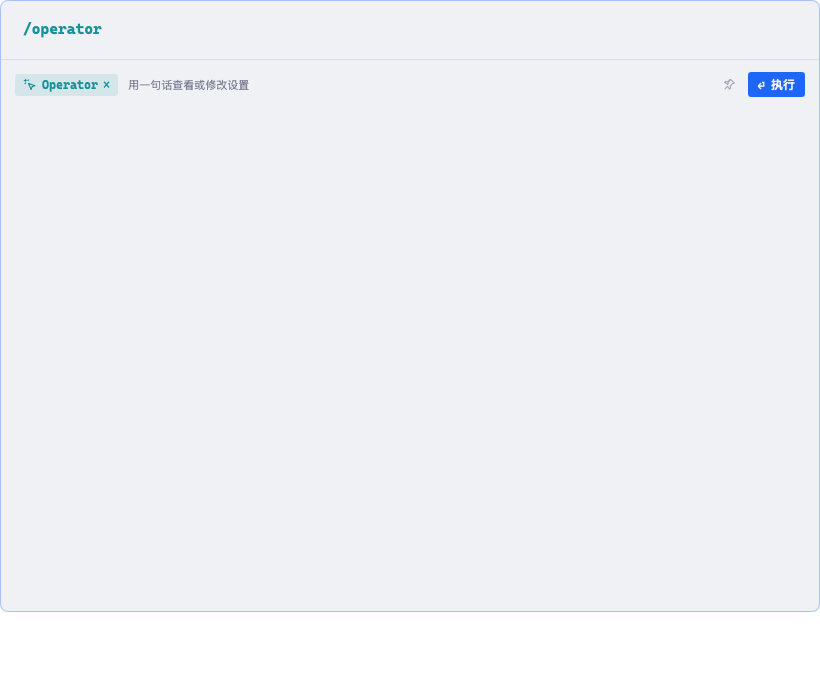
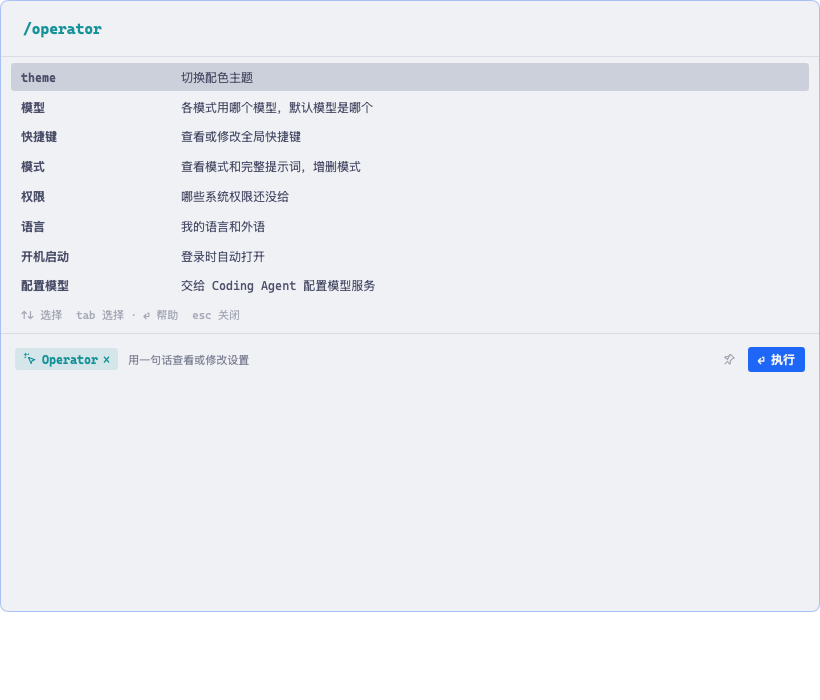
feat: show the operator topics on bare /operator
Typing /operator alone now opens its topic menu right away, so the
settings it can reach are visible before anything else is typed. Enter
on the bare command still opens the local guide without calling a
model; a topic runs only once Tab, a click or the arrows chose it.

diff --git a/internal/panel/slash_test.go b/internal/panel/slash_test.go
@@ -1,0 +1,244 @@
+package panel
+
+import (
+	"strings"
+	"testing"
+
+	"github.com/egoist/mygo/ui"
+)
+
+// operatorTopicTitles are the topics the operator menu lists, in order.
+var operatorTopicTitles = []string{
+	"切换配色主题",
+	"各模式用哪个模型，默认模型是哪个",
+	"查看或修改全局快捷键",
+	"查看模式和完整提示词，增删模式",
+	"哪些系统权限还没给",
+	"我的语言和外语",
+	"登录时自动打开",
+	"交给 Coding Agent 配置模型服务",
+}
+
+// operatorMenuFrames bounds how many frames a test draws while waiting for
+// a menu.
+const operatorMenuFrames = 12
+
+// waitForOperatorMenu draws frames until the menu shows every text in want
+// and is no longer waiting for the window.
+func waitForOperatorMenu(t *testing.T, h *harness, want ...string) {
+	t.Helper()
+	for i := 0; i < operatorMenuFrames; i++ {
+		h.tt.Frame()
+		if h.p.menuHidden {
+			continue
+		}
+		ok := true
+		for _, s := range want {
+			if !h.tt.HasText(s) {
+				ok = false
+				break
+			}
+		}
+		if ok {
+			return
+		}
+	}
+	kind, items := h.p.menu(h.p.pal)
+	t.Fatalf("after %d frames the menu (kind %d, %d items, hidden %v) shows no %q; source %q, texts %q",
+		operatorMenuFrames, kind, len(items), h.p.menuHidden, want, h.p.source, h.tt.Texts())
+}
+
+// assertMenuClosed draws a frame and fails while a menu still shows.
+func assertMenuClosed(t *testing.T, h *harness) {
+	t.Helper()
+	h.tt.Frame()
+	if kind, items := h.p.menu(h.p.pal); kind != menuNone {
+		t.Fatalf("menu still open: kind %d, %d items, source %q", kind, len(items), h.p.source)
+	}
+	// The guide repeats some topic titles as examples, so the menu's own
+	// hint is what says whether a menu is drawn.
+	if h.tt.HasText("↑↓ 选择") {
+		t.Fatalf("closed menu still shows its hint: %q", h.tt.Texts())
+	}
+}
+
+func TestOperatorMenuInputVariationsShowAllTopics(t *testing.T) {
+	for _, tc := range []struct {
+		name, input string
+	}{
+		{"bare", "/operator"},
+		{"space", "/operator "},
+		{"spaces", "/operator  "},
+		{"tab", "/operator\t"},
+	} {
+		t.Run(tc.name, func(t *testing.T) {
+			h := newHarness(t, script{})
+			h.tt.Frame()
+			h.tt.Click("原文")
+			h.tt.Type(tc.input)
+			waitForOperatorMenu(t, h, operatorTopicTitles...)
+			if h.p.source != tc.input {
+				t.Errorf("source = %q, want %q", h.p.source, tc.input)
+			}
+			kind, items := h.p.menu(h.p.pal)
+			if kind != menuTopics || len(items) != len(operatorTopicTitles) {
+				t.Errorf("menu kind %d with %d items, want %d topics", kind, len(items), len(operatorTopicTitles))
+			}
+		})
+	}
+}
+
+func TestOperatorMenuFiltersTopics(t *testing.T) {
+	h := newHarness(t, script{})
+	h.tt.Frame()
+	h.tt.Click("原文")
+	h.tt.Type("/operator   快捷")
+	waitForOperatorMenu(t, h, "查看或修改全局快捷键")
+
+	kind, items := h.p.menu(h.p.pal)
+	if kind != menuTopics || len(items) != 1 {
+		t.Fatalf("menu kind %d with %d items, want the 快捷键 topic", kind, len(items))
+	}
+	for _, title := range operatorTopicTitles {
+		if title == "查看或修改全局快捷键" {
+			continue
+		}
+		if h.tt.HasText(title) {
+			t.Errorf("filtering by 快捷 still shows %q", title)
+		}
+	}
+}
+
+func TestOperatorMenuRequestsShowNoTopics(t *testing.T) {
+	for _, tc := range []struct{ name, input string }{
+		{"request", "/operator 我的语言和外语分别是什么？"},
+		{"commandPrefix", "/operatorx"},
+	} {
+		t.Run(tc.name, func(t *testing.T) {
+			h := newHarness(t, script{})
+			h.tt.Frame()
+			h.tt.Click("原文")
+			h.tt.Type(tc.input)
+			for i := 0; i < operatorMenuFrames; i++ {
+				h.tt.Frame()
+			}
+			if kind, _ := h.p.menu(h.p.pal); kind == menuTopics {
+				t.Fatalf("a topics menu opened for %q", h.p.source)
+			}
+			for _, title := range operatorTopicTitles {
+				if h.tt.HasText(title) {
+					t.Fatalf("a topics menu shows %q for %q", title, h.p.source)
+				}
+			}
+		})
+	}
+}
+
+func TestOperatorMenuEnterWithoutArrowsShowsGuide(t *testing.T) {
+	oh := newOperatorHarness(t, "never asked")
+	oh.tt.Frame()
+	oh.tt.Click("原文")
+	oh.tt.Type("/operator")
+	waitForOperatorMenu(t, oh.harness, operatorTopicTitles...)
+
+	oh.tt.Key(0, ui.KeyEnter)
+	oh.drain()
+	if oh.p.sess == nil {
+		t.Fatalf("Enter on bare /operator started no session; source %q", oh.p.source)
+	}
+	turn := oh.p.sess.Last()
+	if !turn.Local || !strings.Contains(turn.Reply, "## Operator") || oh.system != "" {
+		t.Errorf("local %v, asked the model %v, reply %q", turn.Local, oh.system != "", turn.Reply)
+	}
+	if oh.p.source != "/operator" {
+		t.Errorf("source = %q, want the command unchanged", oh.p.source)
+	}
+	assertMenuClosed(t, oh.harness)
+}
+
+func TestOperatorMenuTabPicksTheme(t *testing.T) {
+	oh := newOperatorHarness(t, "never asked")
+	oh.tt.Frame()
+	oh.tt.Click("原文")
+	oh.tt.Type("/operator")
+	waitForOperatorMenu(t, oh.harness, operatorTopicTitles...)
+
+	oh.tt.Key(0, ui.KeyTab)
+	oh.tt.Frame()
+	if oh.p.source != "/theme " {
+		t.Fatalf("Tab gave %q, want /theme ", oh.p.source)
+	}
+	if oh.system != "" {
+		t.Error("picking the theme asked the model")
+	}
+	waitForOperatorMenu(t, oh.harness, "跟随系统")
+}
+
+func TestOperatorMenuArrowsPickTheme(t *testing.T) {
+	oh := newOperatorHarness(t, "never asked")
+	oh.tt.Frame()
+	oh.tt.Click("原文")
+	oh.tt.Type("/operator")
+	waitForOperatorMenu(t, oh.harness, operatorTopicTitles...)
+
+	// Down and Up end on the first row again; the arrows still count as
+	// an explicit choice, so Enter takes it instead of showing the guide.
+	oh.tt.Key(0, ui.KeyDown)
+	oh.tt.Key(0, ui.KeyUp)
+	oh.tt.Key(0, ui.KeyEnter)
+	oh.tt.Frame()
+	if oh.p.source != "/theme " {
+		t.Fatalf("Down, Up, Enter gave %q, want /theme ", oh.p.source)
+	}
+	if oh.system != "" {
+		t.Error("picking the theme asked the model")
+	}
+	waitForOperatorMenu(t, oh.harness, "跟随系统")
+}
+
+func TestOperatorMenuEscapeClosesTopics(t *testing.T) {
+	h := newHarness(t, script{})
+	h.tt.Frame()
+	h.tt.Click("原文")
+	h.tt.Type("/operator")
+	waitForOperatorMenu(t, h, operatorTopicTitles...)
+
+	h.tt.Key(0, ui.KeyEscape)
+	assertMenuClosed(t, h)
+	if h.p.source != "/operator" {
+		t.Errorf("Escape changed the source to %q", h.p.source)
+	}
+	if h.p.sess != nil {
+		t.Error("Escape ran the guide")
+	}
+}
+
+func TestOperatorMenuEditClearsArrowChoice(t *testing.T) {
+	oh := newOperatorHarness(t, "never asked")
+	oh.tt.Frame()
+	oh.tt.Click("原文")
+	oh.tt.Type("/operator")
+	waitForOperatorMenu(t, oh.harness, operatorTopicTitles...)
+
+	oh.tt.Key(0, ui.KeyDown)
+	oh.tt.Key(0, ui.KeyUp)
+	// Delete the command's last letter and type it again: the menu is back
+	// at bare /operator, but the arrows' choice was for text now gone.
+	oh.tt.Key(0, ui.KeyBackspace)
+	oh.tt.Type("r")
+	waitForOperatorMenu(t, oh.harness, operatorTopicTitles...)
+	if oh.p.source != "/operator" {
+		t.Fatalf("after the edit the source is %q, want bare /operator", oh.p.source)
+	}
+
+	oh.tt.Key(0, ui.KeyEnter)
+	oh.drain()
+	if oh.p.sess == nil {
+		t.Fatalf("Enter after editing started no session; source %q", oh.p.source)
+	}
+	turn := oh.p.sess.Last()
+	if !turn.Local || !strings.Contains(turn.Reply, "## Operator") || oh.system != "" {
+		t.Errorf("local %v, asked the model %v, reply %q", turn.Local, oh.system != "", turn.Reply)
+	}
+	assertMenuClosed(t, oh.harness)
+}

diff --git a/internal/panel/slash.go b/internal/panel/slash.go
@@ -12,8 +12,9 @@ import (
 
 // A menu shows under the source while a command is typed, as monocode's
 // quick composer does: the commands after "/", the topics after
-// "/operator ", the themes after "/theme". The arrows choose, Tab
-// and Enter take, Escape closes.
+// "/operator", the themes after "/theme". The arrows choose, Tab
+// and Enter take, Escape closes. Enter on bare /operator opens the guide
+// unless the arrows explicitly chose a topic.
 type menuKind int
 
 const (
@@ -54,22 +55,25 @@ func (p *Panel) menu(pal *design.Palette) (menuKind, []item) {
 
 func (p *Panel) menuItems(pal *design.Palette) (menuKind, []item) {
 	src := p.source
+	if src != p.menuChosenFor {
+		p.menuChosenFor = ""
+	}
+	if src != p.menuClosed {
+		p.menuClosed = ""
+	}
 	if src == p.menuClosed || strings.Contains(src, "\n") || p.noteMode() {
 		return menuNone, nil
 	}
+	request, isOperator := operator.Leading(src)
 	switch {
 	case themeTyped(src):
 		return menuThemes, p.themeItems(strings.TrimSpace(src[len(themeCommand):]))
-	case strings.HasPrefix(src, operator.Command+" "):
-		rest := src[len(operator.Command)+1:]
-		if strings.Contains(rest, " ") {
+	case isOperator:
+		if strings.ContainsAny(request, " \t") {
 			return menuNone, nil
 		}
-		return menuTopics, p.topicItems(rest)
+		return menuTopics, p.topicItems(request)
 	case strings.HasPrefix(src, "/") && !strings.ContainsAny(src, " \t"):
-		if _, ok := operator.Leading(src); ok {
-			return menuNone, nil
-		}
 		return menuCommands, p.commandItems(src[1:], pal)
 	}
 	return menuNone, nil
@@ -202,15 +206,21 @@ func (p *Panel) menuKey(k ui.TextKey, pal *design.Palette) bool {
 	switch {
 	case k.Key == ui.KeyEscape && k.Mods == 0:
 		p.menuClosed = p.source
+		p.menuChosenFor = ""
 		return true
 	case len(items) == 0:
 		return false
 	case k.Key == ui.KeyDown && k.Mods == 0:
 		p.menuIdx = (p.menuIdx + 1) % len(items)
+		p.menuChosenFor = p.source
 		return true
 	case k.Key == ui.KeyUp && k.Mods == 0:
 		p.menuIdx = (p.menuIdx - 1 + len(items)) % len(items)
+		p.menuChosenFor = p.source
 		return true
+	case k.Key == ui.KeyEnter && k.Mods == 0 && p.source == operator.Command && p.menuChosenFor != p.source:
+		p.menuClosed = p.source
+		return false
 	case (k.Key == ui.KeyTab || k.Key == ui.KeyEnter) && k.Mods == 0:
 		it := items[min(p.menuIdx, len(items)-1)]
 		p.menuIdx = 0
@@ -287,6 +297,10 @@ func (p *Panel) menuView(c *ui.Context, pal *design.Palette) {
 		})
 		hint := "tab ⏎ 确定"
 		switch kind {
+		case menuTopics:
+			if p.source == operator.Command && p.menuChosenFor != p.source {
+				hint = "tab 选择 · ⏎ 帮助"
+			}
 		case menuThemes:
 			hint = "⏎ 用这个主题"
 		}

diff --git a/internal/panel/panel.go b/internal/panel/panel.go
@@ -105,9 +105,12 @@ type Panel struct {
 	sourceSelected, followSelected bool
 
 	// menuIdx is the chosen row of the menu under the source; menuClosed
-	// the source the menu was closed for with Escape.
+	// the source the menu was dismissed for.
 	menuIdx    int
 	menuClosed string
+	// menuChosenFor is the source for which an arrow key chose a menu row.
+	// Without that choice, Enter on bare /operator still opens the guide.
+	menuChosenFor string
 	// menuRows is how many rows the menu has; menuGrew counts the frames
 	// since it opened or grew, while it waits for the window (menuWaiting).
 	menuRows, menuGrew int

diff --git a/docs/requirements.md b/docs/requirements.md
@@ -134,7 +134,7 @@
 | ID | 需求 | 级别 |
 | --- | --- | --- |
 | F9.1 | 原文以 `/operator` 开头即进入 Operator：命令变色并扫过一道光，模式标签换成「Operator ×」；× 或删掉命令即退出；同一会话的追问都留在 Operator | P0 |
-| F9.2 | 只输入 `/operator`：不调用模型，直接回复这个模式能做什么和示例；还没有模型时附上交给 Coding Agent 的配置提示词 | P0 |
+| F9.2 | 输入完整的 `/operator` 即显示子菜单，后接一个或多个空格、制表符也显示；继续输入时按主题过滤，不匹配的自然语言请求关闭菜单。裸命令直接按 ⏎ 显示本地帮助，不调用模型；Tab、点击或 ↑↓ 选择后按 ⏎ 执行菜单项，Esc 关闭菜单。帮助说明能做什么和示例；还没有模型时附上交给 Coding Agent 的配置提示词 | P0 |
 | F9.3 | 带一句话：交给默认模型，可以查看任何设置（快捷键、默认模型、各模式的模型与完整提示词、权限、版本），也可以修改 `config.json` 里除模型服务以外的一切；发送时结果区升起一阵星星 | P0 |
 | F9.4 | 修改直接生效：校验通过才写入，回复末尾列出改前 → 改后；在空的追问框按 ⌘Z 或点「撤销」恢复上一份配置；不合法时不写入并说明原因 | P0 |
 | F9.5 | 模型服务（endpoint、format、API Key）不在 Operator 里改：它会复制配置提示词，交给 Coding Agent | P0 |

diff --git a/docs/architecture.md b/docs/architecture.md
@@ -177,6 +177,8 @@ GlobalShortcut.Register("Alt+Space")（Carbon 热键）
 
 ## 九、Operator
 
+原文输入区用 `operator.Leading` 统一识别 Operator 模式与子菜单，空请求显示全部主题，非空请求按主题过滤（需求 F9.2）。菜单记录方向键选择所对应的原文，原文变化时清除选择记录；裸 `/operator` 未用方向键选择时，⏎ 仍提交空请求以显示本地帮助，Tab 或显式选择则执行菜单项。
+
 ```
 原文 "/operator …" ─► operator.Leading ─► 空请求：operator.Guide，本地回复，不调用模型
                                    └─► 有请求：operator.System（schema、配置原文去掉 Key、生效值、各模式提示词全文、权限）
